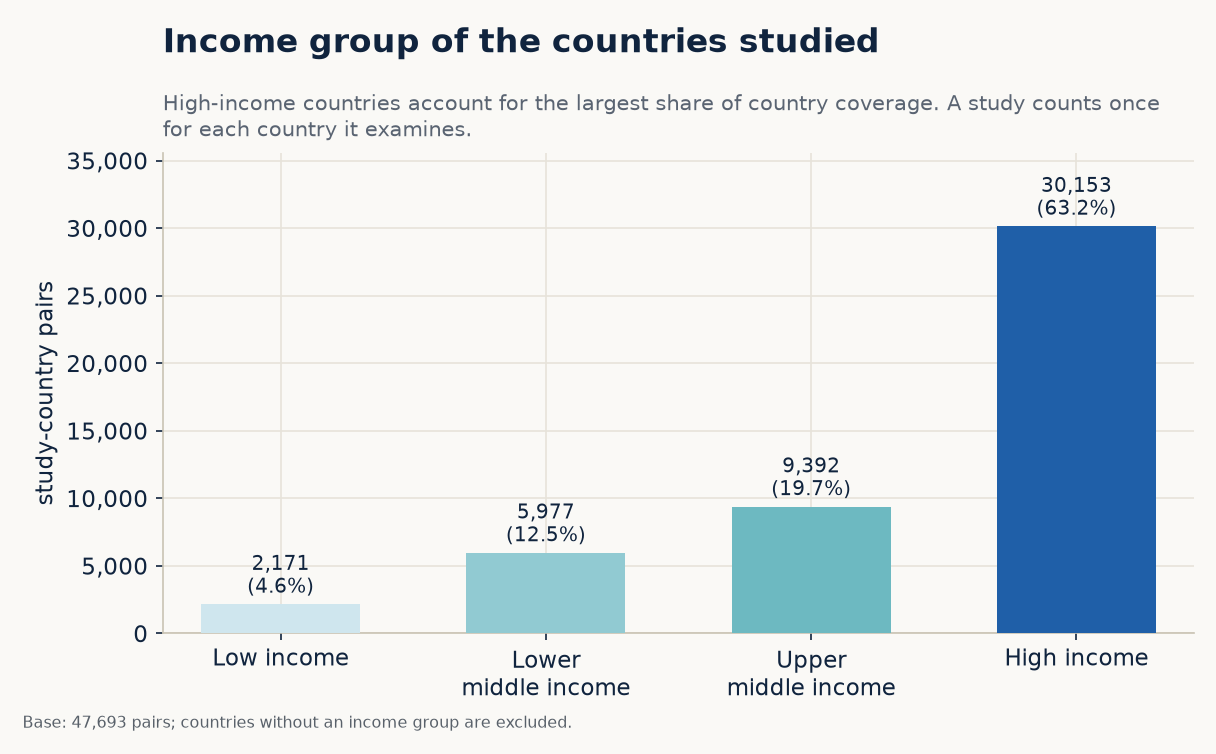
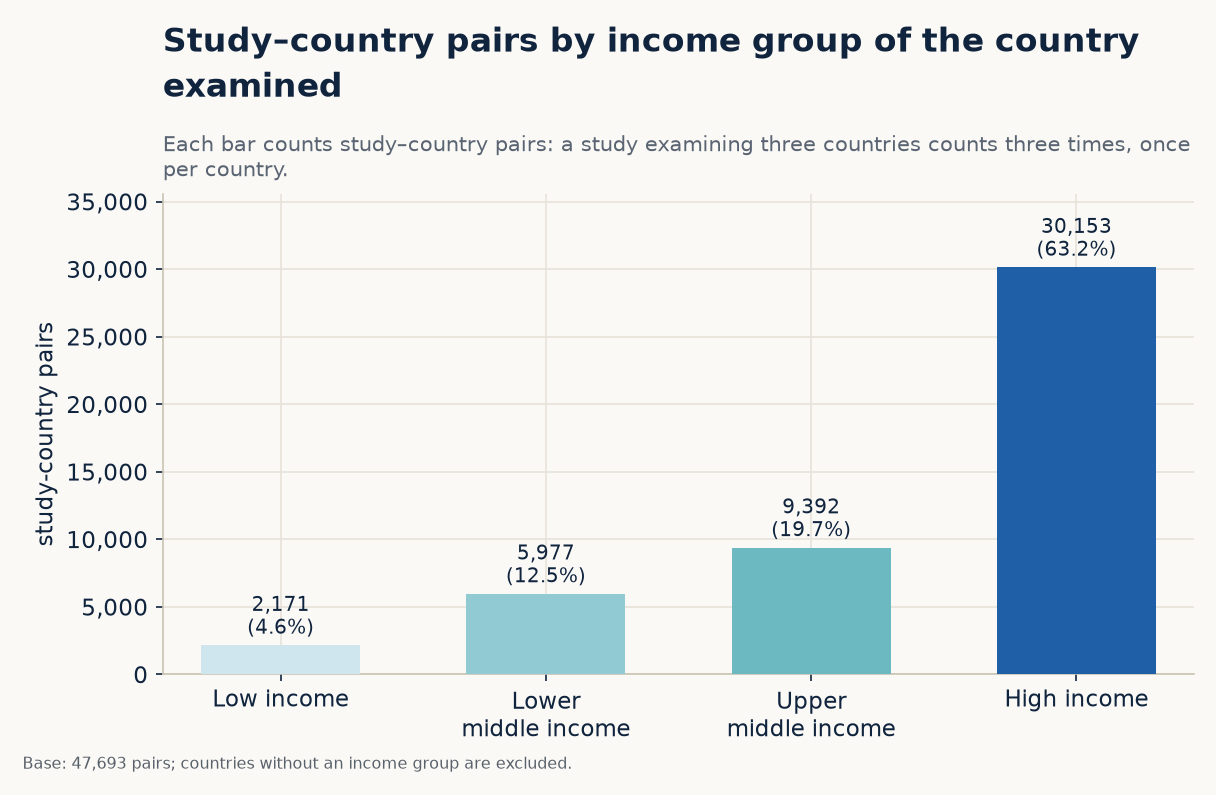
Income chart: title and caption say it counts study-country pairs
The bars count study-country pairs (a study examining three countries
counts three times), not studies or countries. New title "Study-country
pairs by income group of the country examined"; caption explains the
pair count. Re-rendered with figure_copy_v2_5.json.

diff --git a/docs/index.html b/docs/index.html
@@ -11,7 +11,7 @@
      versions with SHA-384 integrity hashes verified by double fetch. -->
 <link rel="stylesheet" href="https://cdn.jsdelivr.net/npm/tom-select@2.3.1/dist/css/tom-select.min.css" integrity="sha384-krui876Mk6M6Lq6uj1SQo+u4MoImxFwCfwzWNU982QBMNci3VMZ3FoYSdUakJD5I" crossorigin="anonymous">
 <link rel="stylesheet" href="https://cdn.jsdelivr.net/npm/nouislider@15.8.1/dist/nouislider.min.css" integrity="sha384-PSZaVsyG9jDu8hFaSJev5s/9poIJlX7cuxSGdqCgXRHpo2DzIaZAyCd2rG/DJJmV" crossorigin="anonymous">
-<link rel="stylesheet" href="styles.css?v=2026-10-14d">
+<link rel="stylesheet" href="styles.css?v=2026-10-14e">
 </head>
 <body>
 
@@ -82,7 +82,7 @@
         <div class="card-body overview-analysis-body">
           <button class="overview-figure-button" id="ov-worldmap-open" type="button"
                   aria-label="Open the figure showing which countries the studies examine">
-            <img class="overview-analysis-figure" src="figures/fig_worldmap.png?v=2026-10-14d"
+            <img class="overview-analysis-figure" src="figures/fig_worldmap.png?v=2026-10-14e"
                  alt="World map showing which countries health financing studies examine">
           </button>
         </div>
@@ -95,7 +95,7 @@
         <div class="card-body overview-analysis-body">
           <button class="overview-figure-button" id="ov-function-open" type="button"
                   aria-label="Open the studies by financing function figure">
-            <img class="overview-analysis-figure" src="figures/fig_function_bar.png?v=2026-10-14d"
+            <img class="overview-analysis-figure" src="figures/fig_function_bar.png?v=2026-10-14e"
                  alt="Bar chart showing studies by health financing function">
           </button>
         </div>
@@ -108,7 +108,7 @@
         <div class="card-body overview-analysis-body">
           <button class="overview-figure-button" id="ov-disease-method-open" type="button"
                   aria-label="Open the figure showing how each disease area is evaluated">
-            <img class="overview-analysis-figure" src="figures/fig_disease_method.png?v=2026-10-14d"
+            <img class="overview-analysis-figure" src="figures/fig_disease_method.png?v=2026-10-14e"
                  alt="Heatmap showing the mix of financing functions evaluated within each disease area">
           </button>
         </div>
@@ -147,7 +147,7 @@
     <div class="theme-wrap">
       <div id="gal-index">
         <header class="thematic-hero">
-          <img class="thematic-hero-map" src="figures/fig_worldmap.png?v=2026-10-14d" alt="" aria-hidden="true">
+          <img class="thematic-hero-map" src="figures/fig_worldmap.png?v=2026-10-14e" alt="" aria-hidden="true">
           <div class="thematic-hero-copy">
             <div class="thematic-eyebrow">Thematic analysis</div>
             <h1>Explore key patterns in the global health financing evidence base.</h1>
@@ -741,7 +741,7 @@
 <script src="https://cdn.jsdelivr.net/npm/plotly.js-dist-min@2.35.2/plotly.min.js" integrity="sha384-cCVCZkAjYNxaYKbM8lsArLznDF/SvMFr1jcZrvOpSTCa0W40ZAdLzHCEulnUa5i7" crossorigin="anonymous"></script>
 <script src="https://cdn.jsdelivr.net/npm/tom-select@2.3.1/dist/js/tom-select.complete.min.js" integrity="sha384-cnROoUgVILyibe3J0zhzWoJ9p2WmdnK7j/BOTSWqVDbC1pVw2d+i6Q/1ESKJKCYf" crossorigin="anonymous"></script>
 <script src="https://cdn.jsdelivr.net/npm/nouislider@15.8.1/dist/nouislider.min.js" integrity="sha384-EcVTHT5RdDTvzbTIbNOtaNxNALeJYDgmv5Crp3NBmcdrCPrDnqp6I1+ETJ/FCFHI" crossorigin="anonymous"></script>
-<script type="module" src="app.js?v=2026-10-14d"></script>
+<script type="module" src="app.js?v=2026-10-14e"></script>
 
 </body>
 </html>

diff --git a/docs/app.js b/docs/app.js
@@ -1,6 +1,6 @@
 // Cache-busting build token — bump alongside index.html's ?v= query string
 // whenever app.js or the data files change.
-const BUILD = "2026-10-14d";
+const BUILD = "2026-10-14e";
 
 const CODED_COLS = ["study_design", "type_of_analysis", "data_type", "data_source",
   "unit_of_observation", "geo_scope", "era"];
